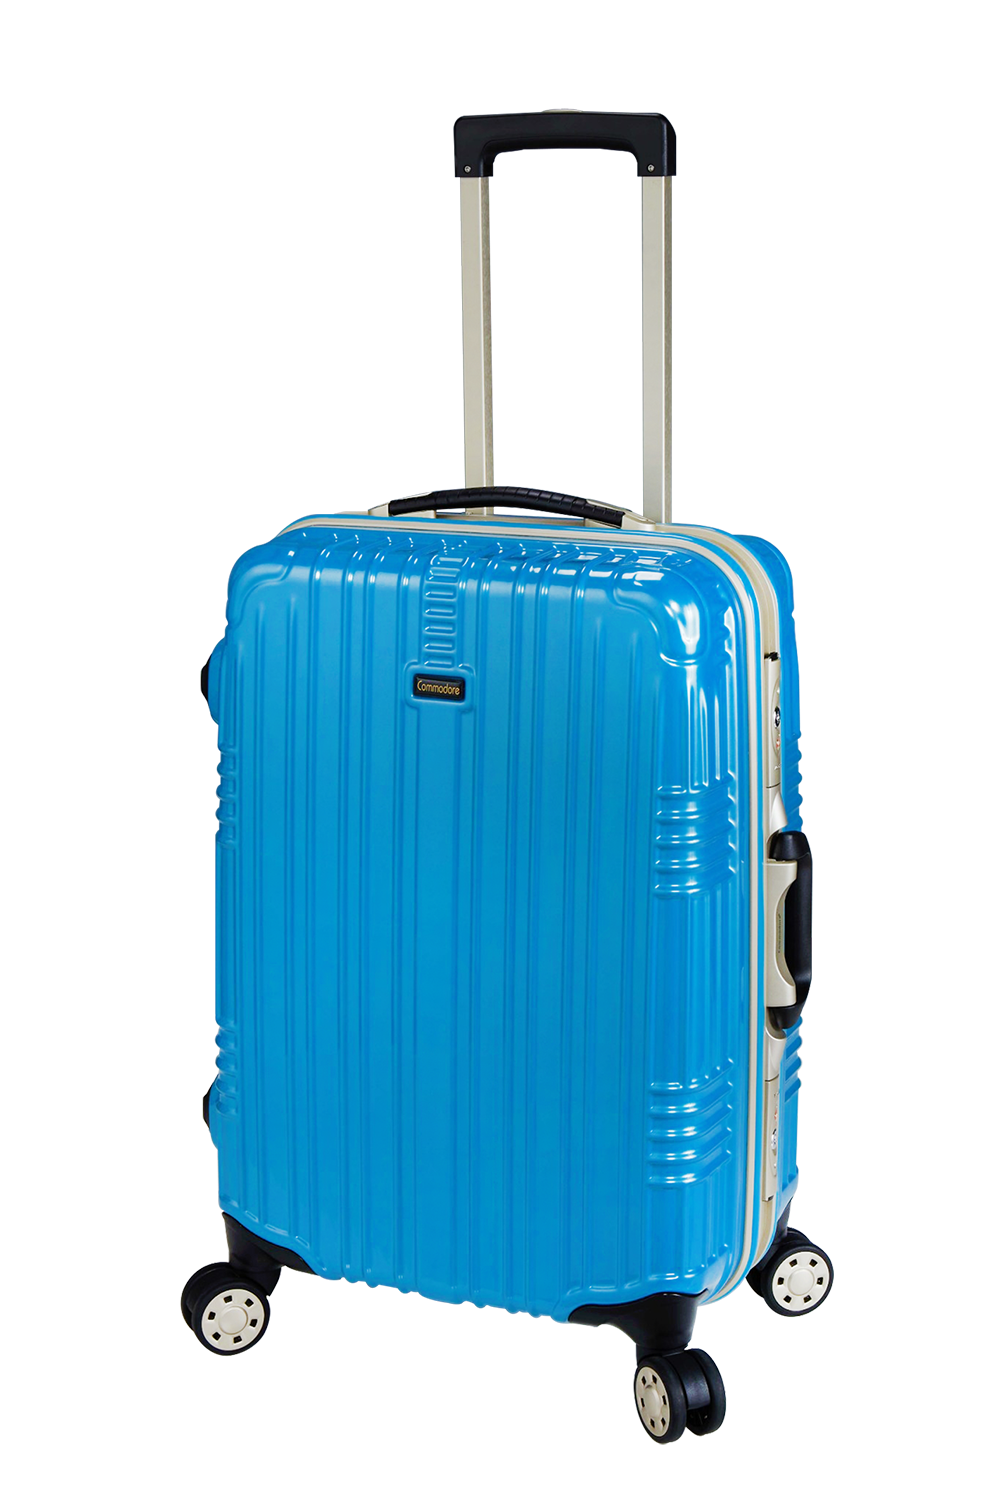
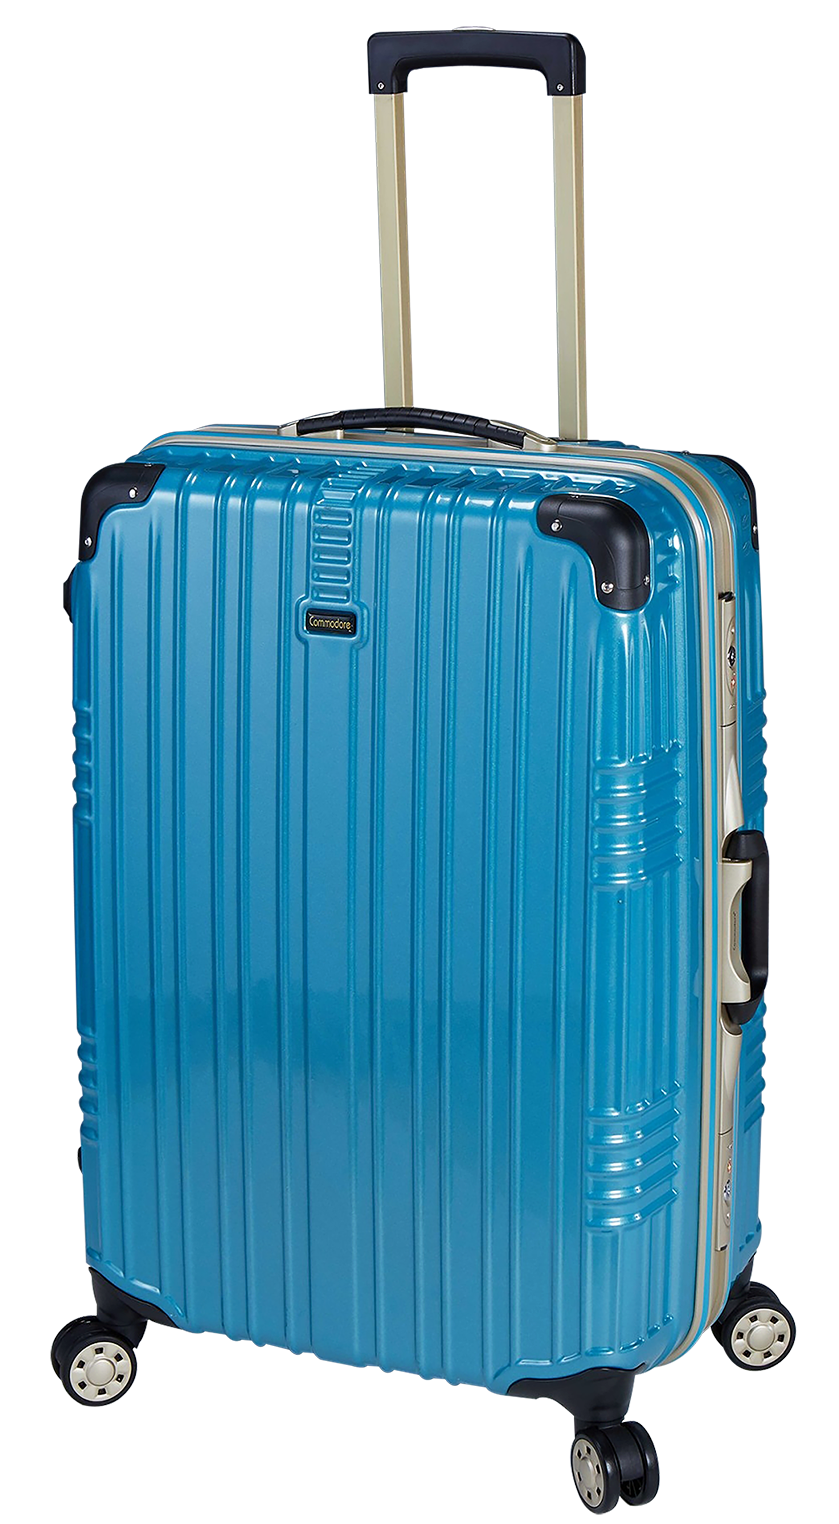
feat: update 24 inch

diff --git a/src/style/scss/product.scss b/src/style/scss/product.scss
@@ -199,6 +199,64 @@ p {
   }
 }
 
+#color9938 label {
+  &[for='color-1'] {
+    background: #bb0100;
+  }
+  &[for='color-2'] {
+    background: #0090c5;
+  }
+  &[for='color-3'] {
+    background: #202020;
+  }
+  &[for='color-4'] {
+    background: #1e2f76;
+  }
+  &[for='color-5'] {
+    background: #c7c0bb;
+  }
+  &[for='color-6'] {
+    background: #e4a0b4;
+  }
+}
+
+#color9938_24 label {
+  &[for='color-1'] {
+    background: #bb0100;
+  }
+  &[for='color-2'] {
+    background: #0090c5;
+  }
+  &[for='color-3'] {
+    background: #202020;
+  }
+  &[for='color-4'] {
+    background: #1e2f76;
+  }
+  &[for='color-5'] {
+    background: #c7c0bb;
+  }
+  &[for='color-6'] {
+    background: #e4a0b4;
+  }
+}
+#color9939_24 label {
+  &[for='color-1'] {
+    background: #e4a0b4;
+  }
+  &[for='color-2'] {
+    background: #202020;
+  }
+  &[for='color-3'] {
+    background: #c7c0bb;
+  }
+  &[for='color-4'] {
+    background: #3c5c99;
+  }
+  &[for='color-5'] {
+    background: #e48a20;
+  }
+}
 
 .case-product {
   @include size(100%, 455px);
@@ -289,6 +347,55 @@ p {
     }
     &[name='n9938'][value='6'] {
       background: url(../img/n9938/n9938_6.png) center center no-repeat;
+      background-size: 250px;
+    }
+
+
+    // 9938_24
+    &[name='9938_24'][value='1'] {
+      background: url(../img/9938_24/9938_1.png) center center no-repeat;
+      background-size: 250px;
+    }
+    &[name='9938_24'][value='2'] {
+      background: url(../img/9938_24/9938_2.png) center center no-repeat;
+      background-size: 250px;
+    }
+    &[name='9938_24'][value='3'] {
+      background: url(../img/9938_24/9938_3.png) center center no-repeat;
+      background-size: 250px;
+    }
+    &[name='9938_24'][value='4'] {
+      background: url(../img/9938_24/9938_4.png) center center no-repeat;
+      background-size: 250px;
+    }
+    &[name='9938_24'][value='5'] {
+      background: url(../img/9938_24/9938_5.png) center center no-repeat;
+      background-size: 250px;
+    }
+    &[name='9938_24'][value='6'] {
+      background: url(../img/9938_24/9938_6.png) center center no-repeat;
+      background-size: 250px;
+    }
+
+    // 9939_24
+    &[name='9939_24'][value='1'] {
+      background: url(../img/9939_24/9939_1.png) center center no-repeat;
+      background-size: 250px;
+    }
+    &[name='9939_24'][value='2'] {
+      background: url(../img/9939_24/9939_2.png) center center no-repeat;
+      background-size: 250px;
+    }
+    &[name='9939_24'][value='3'] {
+      background: url(../img/9939_24/9939_3.png) center center no-repeat;
+      background-size: 250px;
+    }
+    &[name='9939_24'][value='4'] {
+      background: url(../img/9939_24/9939_4.png) center center no-repeat;
+      background-size: 250px;
+    }
+    &[name='9939_24'][value='5'] {
+      background: url(../img/9939_24/9939_5.png) center center no-repeat;
       background-size: 250px;
     }
   }

diff --git a/src/style/scss/index.scss b/src/style/scss/index.scss
@@ -78,18 +78,22 @@
   transition: all 0.5s;
 }
 
-.case9909 {
-  background: url(../img/9909/9909_side.png) center center no-repeat;
+.case9938 {
+  background: url(../img/9938/9938_side.png) center center no-repeat;
 }
-.case9928 {
-  background: url(../img/9928/9928_side.png) center center no-repeat;
+.case9939 {
+  background: url(../img/9939/9939_side.png) center center no-repeat;
 }
-.case8816 {
-  background: url(../img/8816/8816_side.png) center center no-repeat;
+.casen9938 {
+  background: url(../img/n9938/n9938_side.png) center center no-repeat;
 }
-.case8828 {
-  background: url(../img/8828/8828_side.png) center center no-repeat;
+.case9938_24 {
+  background: url(../img/9938_24/9938_side.png) center center no-repeat;
 }
+.case9939_24 {
+  background: url(../img/9939_24/9939_side.png) center center no-repeat;
+}
+
 .bg-image-v1 {
   background: url(../img/index_bg.png) repeat fixed;
   background-size: cover;
